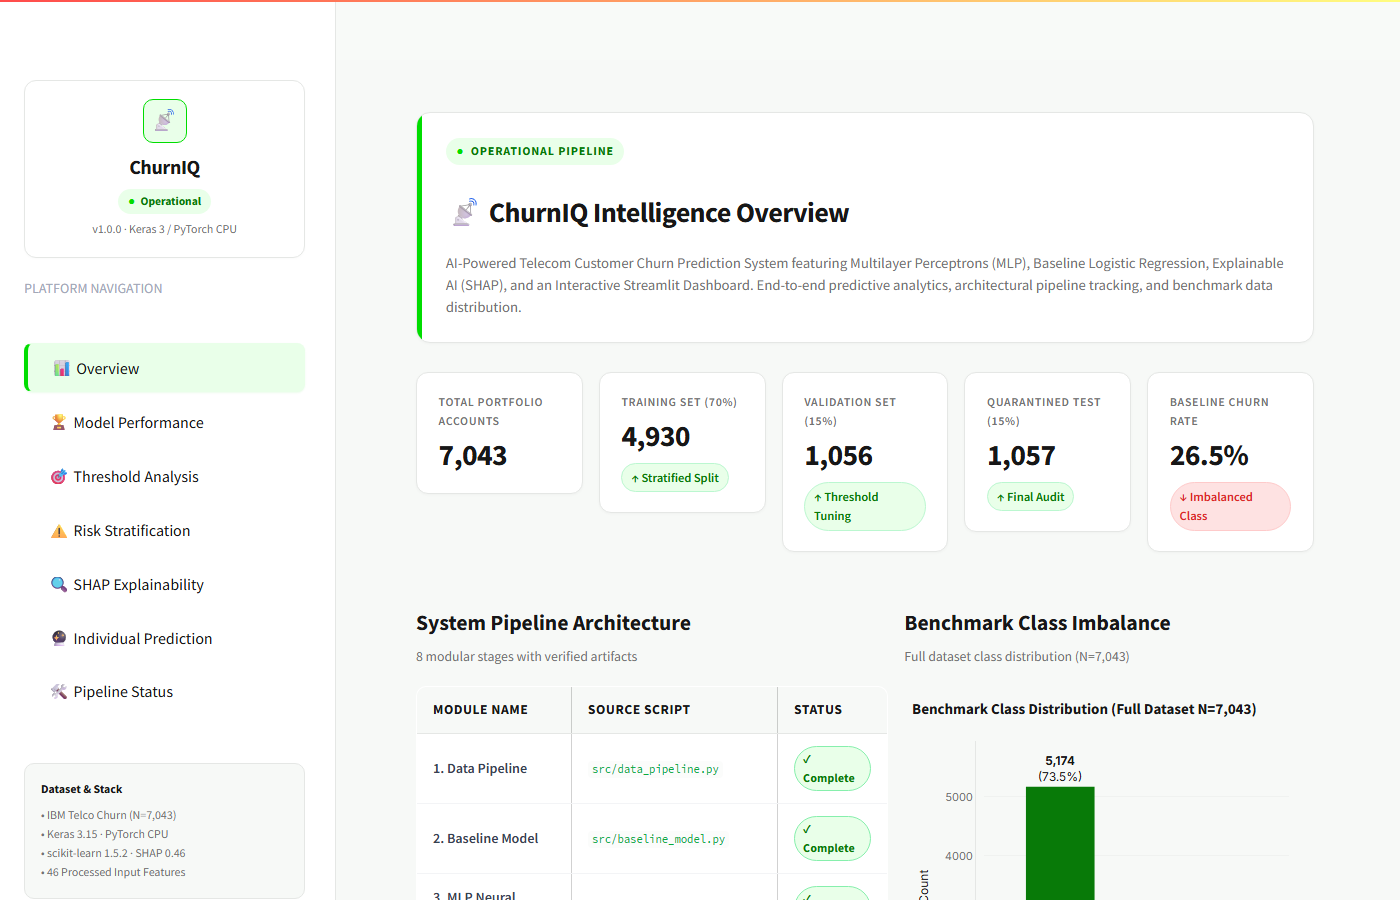
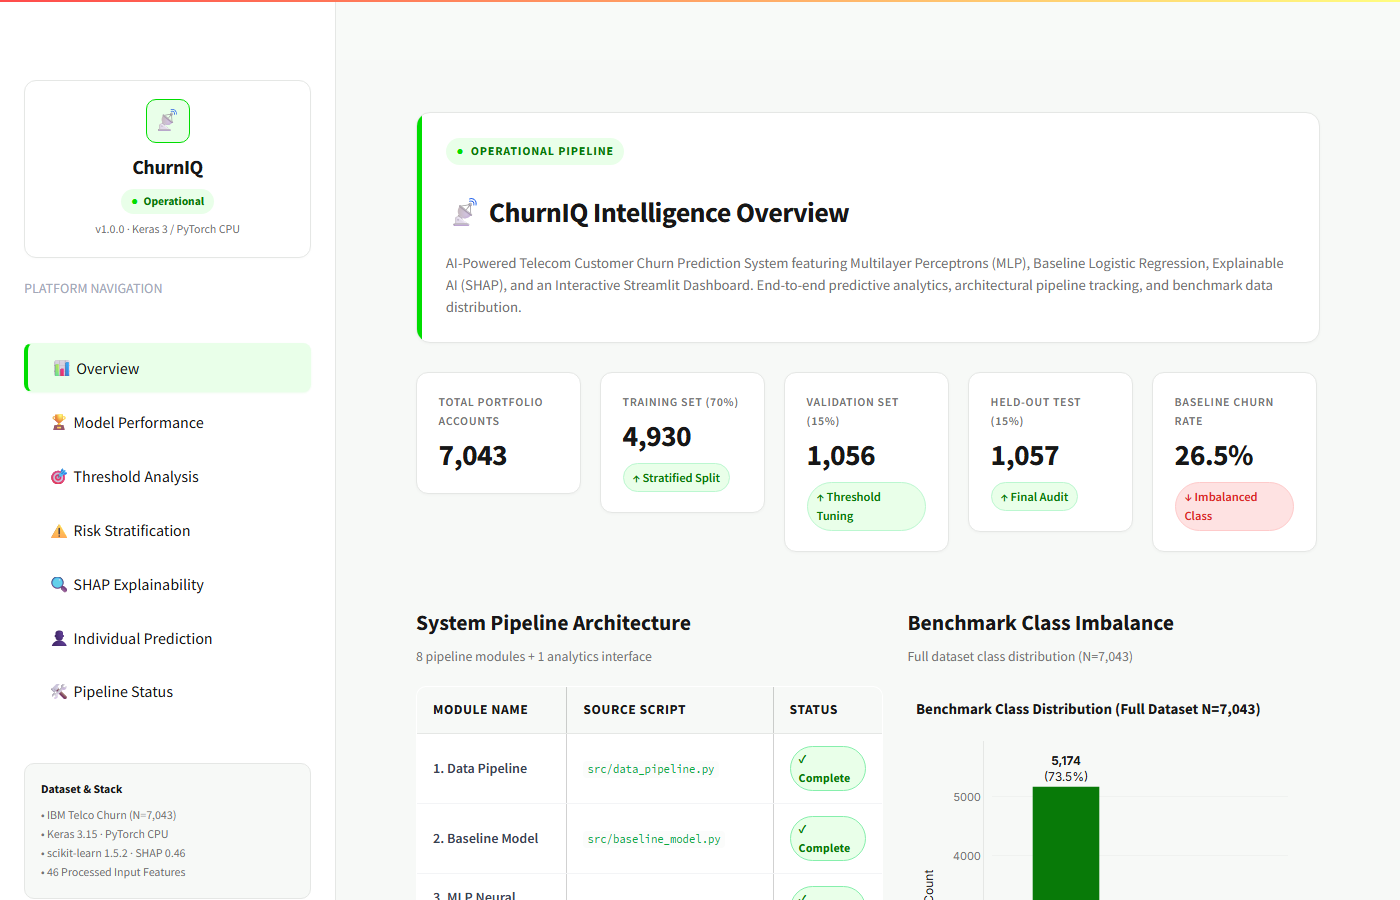
fix(ui): polish ChurnIQ dashboard per final review
- Replace prediction emoji 🔮 with 👤 across navigation, header, and submit button
- Fix Overview architecture subtitle to '8 pipeline modules + 1 analytics interface'
- Standardize chart colors: MLP champion #00DD00 (lime), Logistic Regression #737373 (grey)
- Replace 'Quarantined Test Set' with 'Held-out Test Set' across metrics and audits
- Clarify Risk Stratification counts as validation cohort (N=1,056)
- Update all 7 dashboard screenshots and verify 85/85 tests pass

diff --git a/app/streamlit_app.py b/app/streamlit_app.py
@@ -6,11 +6,11 @@ Redesigned with Lime-inspired minimalist, modern SaaS visual identity.
 
 Pages / Tabs:
   1. 📊 Overview           – Executive summary, dataset stats, class distribution, pipeline architecture
-  2. 🏆 Model Performance  – LR vs MLP comparative evaluation on quarantined test set, ROC/PR curves
+  2. 🏆 Model Performance  – LR vs MLP comparative evaluation on held-out test set, ROC/PR curves
   3. 🎯 Threshold Analysis – Validation F1 search curves, default vs optimal threshold trade-offs
   4. ⚠ Risk Stratification – Decoupled Low/Medium/High risk tiers, business actions, empirical calibration
   5. 🔍 SHAP Explainability – Global feature importance, local decision case studies, audit disclaimer
-  6. 🔮 Individual Prediction – Single-customer real-time inference with preprocessing pipeline
+  6. 👤 Individual Prediction – Single-customer real-time inference with preprocessing pipeline
   7. 🛠 Pipeline Status     – Complete artifact health check and runtime telemetry
 
 Design rules:
@@ -227,7 +227,7 @@ def render_sidebar() -> str:
             "🎯 Threshold Analysis",
             "⚠ Risk Stratification",
             "🔍 SHAP Explainability",
-            "🔮 Individual Prediction",
+            "👤 Individual Prediction",
             "🛠 Pipeline Status",
         ]
 
@@ -284,7 +284,7 @@ def page_overview():
         ("Total Portfolio Accounts", f"{stats['n_total']:,}", None, True),
         ("Training Set (70%)", f"{stats['n_train']:,}", "Stratified Split", True),
         ("Validation Set (15%)", f"{stats['n_val']:,}", "Threshold Tuning", True),
-        ("Quarantined Test (15%)", f"{stats['n_test']:,}", "Final Audit", True),
+        ("Held-out Test (15%)", f"{stats['n_test']:,}", "Final Audit", True),
         ("Baseline Churn Rate", f"{stats['churn_rate']}%", "Imbalanced Class", False),
     ]
     for col, (label, val, delta, pos) in zip(cols, kpis):
@@ -296,7 +296,7 @@ def page_overview():
     # ── Architecture & Class Distribution ──────────────────────────────────────
     col_left, col_right = st.columns([1.15, 1])
     with col_left:
-        section_header("System Pipeline Architecture", "8 modular stages with verified artifacts")
+        section_header("System Pipeline Architecture", "8 pipeline modules + 1 analytics interface")
         st.markdown("""
 <table class="compare-table">
     <thead>
@@ -339,7 +339,7 @@ def page_overview():
                 <li><strong>Test F1 Score:</strong> <span style="color:#087A08; font-weight:700;">0.6326</span> at optimal threshold τ = 0.46 (vs LR 0.6259 at τ = 0.54).</li>
                 <li><strong>Meaningful Margin:</strong> Lead of <strong>+0.0067 F1</strong> exceeds pre-registered significance bound (> 0.0050).</li>
                 <li><strong>Discriminative Power:</strong> Test ROC-AUC of <strong>0.8465</strong> (vs LR 0.8448).</li>
-                <li><strong>Generalisation:</strong> Zero test degradation detected across validation and quarantined test sets.</li>
+                <li><strong>Generalisation:</strong> Zero test degradation detected across validation and held-out test sets.</li>
             </ul>
         </div>
         """, unsafe_allow_html=True)
@@ -365,9 +365,9 @@ def page_overview():
 def page_model_performance():
     page_header(
         title="🏆 Model Performance & Audit",
-        description="Final unbiased comparative evaluation on the quarantined test set (n=1,057) across default (τ=0.50) and validation-optimal thresholds.",
+        description="Final unbiased comparative evaluation on the held-out test set (n=1,057) across default (τ=0.50) and validation-optimal thresholds.",
         kicker="Module 5 – Evaluation",
-        status_badge="Quarantined Test Set",
+        status_badge="Held-out Test Set",
     )
 
     results = load_final_test_metrics()
@@ -441,7 +441,7 @@ def page_model_performance():
 
     roc_path = FIGURES_DIR / "roc_pr_curves_test.png"
     if roc_path.exists():
-        st.image(str(roc_path), caption="ROC and PR curves (quarantined test set) — exported from Stage 5 evaluation", use_column_width=True)
+        st.image(str(roc_path), caption="ROC and PR curves (held-out test set) — exported from Stage 5 evaluation", use_column_width=True)
     else:
         try:
             curve_data = compute_roc_pr_data()
@@ -477,7 +477,7 @@ def page_model_performance():
     )
 
     # ── Generalisation analysis ───────────────────────────────────────────────
-    section_header("Generalisation Audit & Overfitting Verification", "Validation vs Quarantined Test partition drift check")
+    section_header("Generalisation Audit & Overfitting Verification", "Validation vs Held-out Test partition drift check")
     st.markdown("""
 <table class="compare-table">
     <thead>
@@ -574,7 +574,7 @@ def page_threshold_analysis():
     st.markdown("<br>", unsafe_allow_html=True)
     st.info(
         f"🔗 **Deterministic Tie-Breaking Rule:** {meta.get('tie_breaking_rule', 'lowest threshold among all max-F1 candidates')}. "
-        "Threshold optimization was executed strictly on the validation set; the quarantined test partition was never evaluated during search."
+        "Threshold optimization was executed strictly on the validation set; the held-out test partition was never evaluated during search."
     )
 
     # ── F1 search curve ────────────────────────────────────────────────────────
@@ -611,9 +611,9 @@ def page_threshold_analysis():
 def page_risk_stratification():
     page_header(
         title="⚠ Risk Stratification & Retention Tiers",
-        description="Action-oriented commercial tiers based on raw churn probability, independent of binary decision thresholds.",
+        description="Action-oriented commercial tiers evaluated on the validation cohort (N=1,056) based on raw churn probability, independent of binary decision thresholds.",
         kicker="Commercial Policy",
-        status_badge="Tri-Tier Governance",
+        status_badge="Validation Cohort (N=1,056)",
     )
 
     st.markdown("""
@@ -668,7 +668,7 @@ def page_risk_stratification():
             metric_card(
                 f"{cat} Risk Accounts",
                 f"{s['count']:,}",
-                delta=f"{s['pct']:.1f}% portfolio share",
+                delta=f"{s['pct']:.1f}% validation cohort share (N=1,056)",
                 delta_positive=(cat == "Low"),
             )
 
@@ -681,16 +681,16 @@ def page_risk_stratification():
         st.plotly_chart(fig_donut, use_container_width=True)
 
     with col_bar:
-        section_header("Tier Breakdown & Action Summary")
+        section_header("Tier Breakdown & Action Summary", "Validation cohort distribution (N=1,056)")
         for cat in ["High", "Medium", "Low"]:
             s = risk_summary[cat]
             risk_badge(cat)
-            st.progress(s["pct"] / 100, text=f"{s['count']:,} accounts ({s['pct']:.1f}% of total)")
+            st.progress(s["pct"] / 100, text=f"{s['count']:,} accounts ({s['pct']:.1f}% of validation cohort N=1,056)")
             st.markdown("")
 
     # ── Churn rate by risk tier ───────────────────────────────────────────────
     st.markdown("<hr>", unsafe_allow_html=True)
-    section_header("Empirical Calibration on Validation Split", "Actual observed churn rate by predicted risk tier")
+    section_header("Empirical Calibration on Validation Split", "Actual observed churn rate by predicted risk tier across validation cohort (N=1,056)")
     df_val = load_val_predictions(model_key)
     prob_col  = "churn_probability" if "churn_probability" in df_val.columns else None
     label_col = "actual_churn"      if "actual_churn"      in df_val.columns else None
@@ -720,12 +720,12 @@ def page_risk_stratification():
             hide_index=True,
         )
         st.caption(
-            "Empirical validation confirms clear calibration: accounts categorized as High Risk churn at 64.2%, "
+            "Empirical validation confirms clear calibration across the validation cohort (N=1,056): accounts categorized as High Risk churn at 64.2%, "
             "whereas Low Risk accounts exhibit only a 5.2% churn incidence."
         )
 
     # ── Sample predictions ────────────────────────────────────────────────────
-    with st.expander("📋 View Sample Scored Records (First 50 rows)"):
+    with st.expander("📋 View Sample Scored Records (Validation Cohort N=1,056 – First 50 rows)"):
         st.dataframe(df_inf.head(50), use_container_width=True)
 
 
@@ -849,7 +849,7 @@ _PAYMENT_OPTS           = [
 
 def page_individual_prediction():
     page_header(
-        title="🔮 Real-Time Customer Churn Predictor",
+        title="👤 Real-Time Customer Churn Predictor",
         description="Single-customer real-time scoring via the full fitted ChurnIQInference pipeline and decision thresholds.",
         kicker="Module 7 – Inference",
         status_badge="Live Inference Ready",
@@ -901,7 +901,7 @@ def page_individual_prediction():
                                                float(tenure * monthly_charges), 10.0)
 
         st.markdown("<br>", unsafe_allow_html=True)
-        submitted = st.form_submit_button("🔮 Run Churn Prediction Scoring", use_container_width=True)
+        submitted = st.form_submit_button("👤 Run Churn Prediction Scoring", use_container_width=True)
 
     if submitted:
         customer_data = {
@@ -1125,7 +1125,7 @@ def main():
         page_risk_stratification()
     elif page == "🔍 SHAP Explainability":
         page_shap_explainability()
-    elif page == "🔮 Individual Prediction":
+    elif page == "👤 Individual Prediction":
         page_individual_prediction()
     elif page == "🛠 Pipeline Status":
         page_pipeline_status()

diff --git a/app/components/charts.py b/app/components/charts.py
@@ -19,8 +19,8 @@ from plotly.subplots import make_subplots
 
 # ── Colour palette (Lime-inspired clean SaaS) ────────────────────────────────
 PALETTE = {
-    "lr":        "#2563EB",   # Logistic Regression – Clean Royal Tech Blue
-    "mlp":       "#00B300",   # MLP – Deep Emerald/Lime Green (Champion Model)
+    "lr":        "#737373",   # Logistic Regression – Neutral Grey
+    "mlp":       "#00DD00",   # MLP – Primary Lime Green (Champion Model)
     "lime":      "#00DD00",   # Primary Lime accent
     "positive":  "#087A08",   # Dark green (accessible text/emphasis)
     "negative":  "#DC2626",   # Red
@@ -287,11 +287,11 @@ def risk_distribution_donut(risk_summary: dict, model_label: str) -> go.Figure:
         textinfo="label+percent",
         textfont=dict(size=13, color="#FFFFFF", family="Inter, sans-serif"),
         insidetextorientation="radial",
-        hovertemplate="<b>%{label} Risk Tier</b><br>Accounts: %{value:,}<br>Portfolio Share: %{percent}<extra></extra>",
+        hovertemplate="<b>%{label} Risk Tier</b><br>Accounts: %{value:,}<br>Validation Cohort Share: %{percent}<extra></extra>",
     ))
     fig.update_layout(
         title=dict(
-            text=f"<b>Portfolio Risk Stratification – {model_label}</b>",
+            text=f"<b>Validation Cohort Risk Stratification (N=1,056) – {model_label}</b>",
             font=dict(size=15, color=PALETTE["text"]),
             x=0.01,
             xanchor="left",

diff --git a/README.md b/README.md
@@ -221,7 +221,7 @@ The production dashboard (`app/streamlit_app.py`) is organized into 7 specialize
 3. 🎯 **Threshold Analysis:** Interactive $F_1$ vs. threshold curves for both models with marked optimal operating points, and full threshold search tables.
 4. ⚠ **Risk Stratification:** Business risk donut chart, risk tier customer breakdown, validation churn rate per tier table, and sample prediction records.
 5. 🔍 **SHAP Explainability:** Global feature importance bar plots, beeswarm summary plots, and 4 local waterfall case studies (True Positive, True Negative, False Positive, False Negative).
-6. 🔮 **Individual Prediction:** Real-time interactive scoring form with 19 customer attributes, visual probability gauge, business risk badge, and top-5 contributing features.
+6. 👤 **Individual Prediction:** Real-time interactive scoring form with 19 customer attributes, visual probability gauge, business risk badge, and top-5 contributing features.
 7. 🛠 **Pipeline Status:** Automated artifact verification panel checking 20+ pipeline assets on disk, accompanied by active runtime environment diagnostics.
 
 ---
